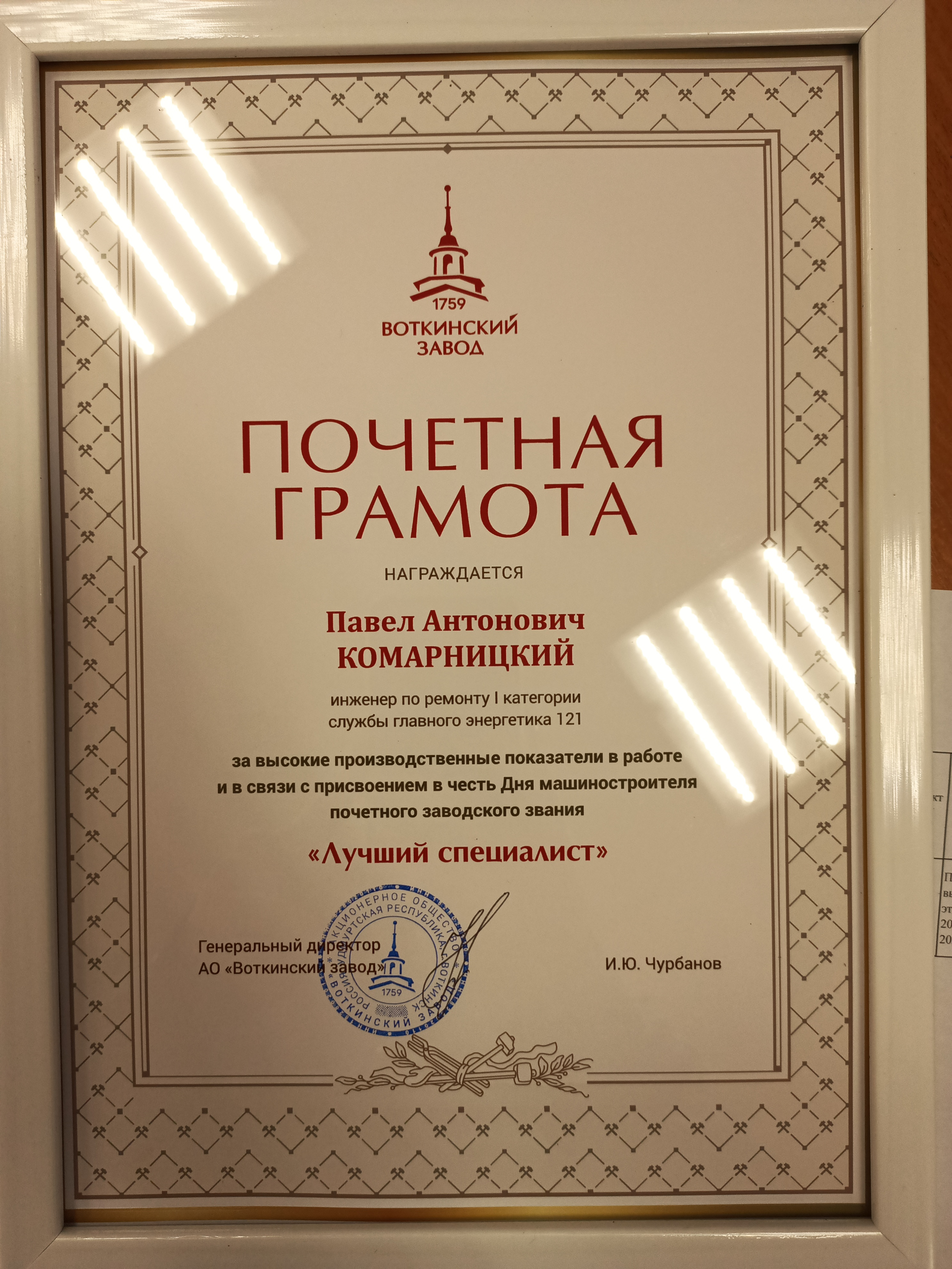
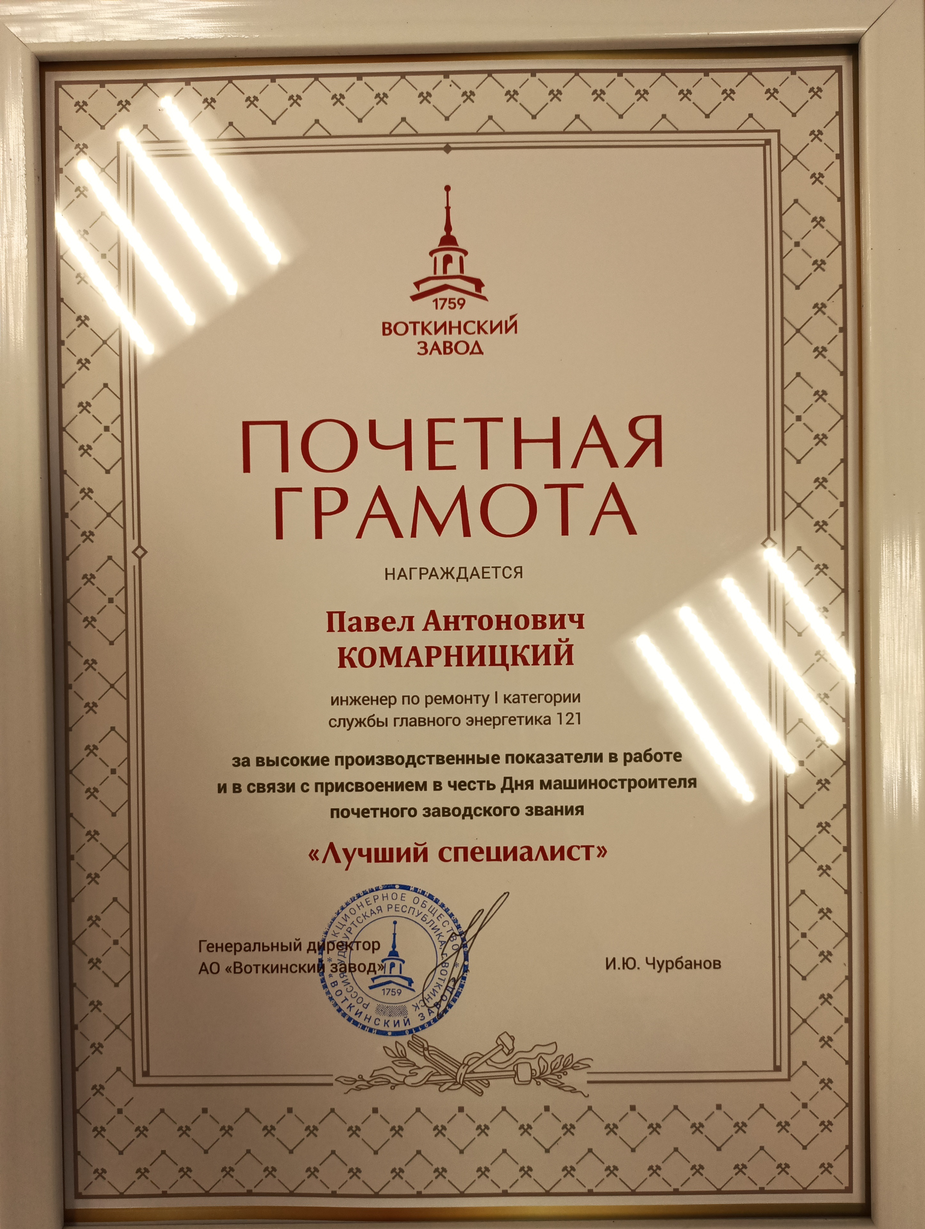
Bugs are fixed: pythoN and image cutting

diff --git a/summary/app/templates/app/resume.html b/summary/app/templates/app/resume.html
@@ -115,7 +115,7 @@
                             <div class="carousel-dots"></div>
                         </div>
                         <h3 class="project-subheading">Стек:</h3>
-                        <p class="project-stack">Pytho, Django, HTML, CSS, DjangoRestFramework, SQL (Postgre)</p>
+                        <p class="project-stack">Python, Django, HTML, CSS, DjangoRestFramework, SQL (Postgre)</p>
                         <h3 class="project-subheading">Описание проекта:</h3>
                         <p class="project-desc">Ученики регистрируются и записываются на урок на свободное время (копия сайта)</p>
                     </div>
